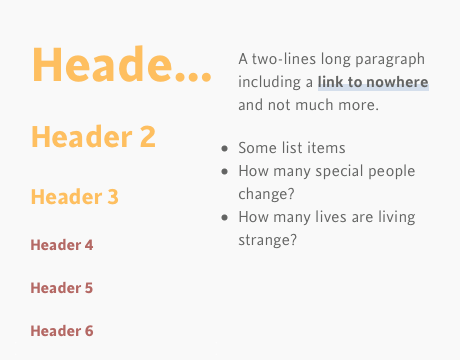
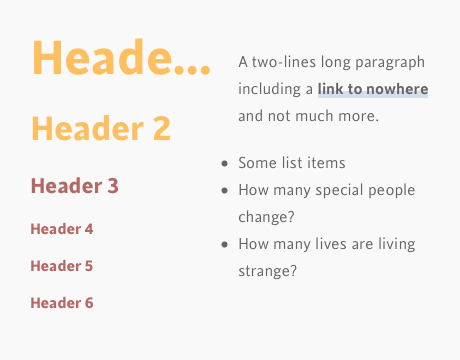
Updated Torpedo h3 and preview

diff --git a/Torpedo.css b/Torpedo.css
@@ -495,12 +495,12 @@ body {
 /* ------------------------------------------------- */
 
 h1,
-h2,
-h3,
-h4,
-h5,
-h6 {
+h2 {
 	color: #febf60;
+}
+
+h3 {
+	color: #b46864;
 }
 
 h4,

diff --git a/specimens/MultiMarkdown Specimen (short).md b/specimens/MultiMarkdown Specimen (short).md
@@ -1,6 +1,6 @@
 Specimen dribbble
 
-<div style="width: 400px; height: 300px; padding: 16px 24px 0 24px; border: 6px solid black;">
+<div style="width: 400px; height: 300px; padding: 16px 24px 0 24px; border: 6px solid black;" class="clients" markdown="1"> <!-- Hack so that Marked 2  parses Markdown in HTML block elements -->
 
 <div style="width: 46%; float: left;">
 
@@ -12,9 +12,9 @@ Specimen dribbble
 <h6 style="margin: 10px auto; padding: 0;">Header 6</h6>
 
 </div>
-<div style="width: 48%; float: right">
+<div style="width: 48%; float: right" class="clients" markdown="1"> <!-- Hack so that Marked 2  parses Markdown in HTML block elements -->
 
-<p style="margin: 10px auto 20px auto; padding: 0;">A two-lines long paragraph including a [link to nowhere](http://) and not much more.</p> <!-- Invalid link so that it always renders with the a:link style and be more representative -->
+<p style="margin: 10px auto 20px auto; padding: 0;">A two-lines long paragraph including a [link to nowhere](http://) and not much more.</p> <!-- Invalid link so that it always renders with the unvisited a:link style -->
 
 <ul>
 	<li>Some list items</li>
@@ -29,7 +29,7 @@ Specimen dribbble
 
 Specimen iPhone
 
-<div style="width: 320px; padding: 30px; border: 6px solid black;">
+<div style="width: 320px; padding: 30px; border: 6px solid black;" class="clients" markdown="1"> <!-- Hack so that Marked 2  parses Markdown in HTML block elements -->
 
 Header 1
 ========
@@ -45,7 +45,7 @@ Header 2
 
 ###### Header 6
 
-A two-lines long paragraph including a [link to nowhere](http://) and not much more. <!-- Invalid link so that it always renders with the a:link style and be more representative -->
+A two-lines long paragraph including a [link to nowhere](http://) and not much more. <!-- Invalid link so that it always renders with the unvisited a:link style -->
 
 - Some list items
 - How many special people change?
